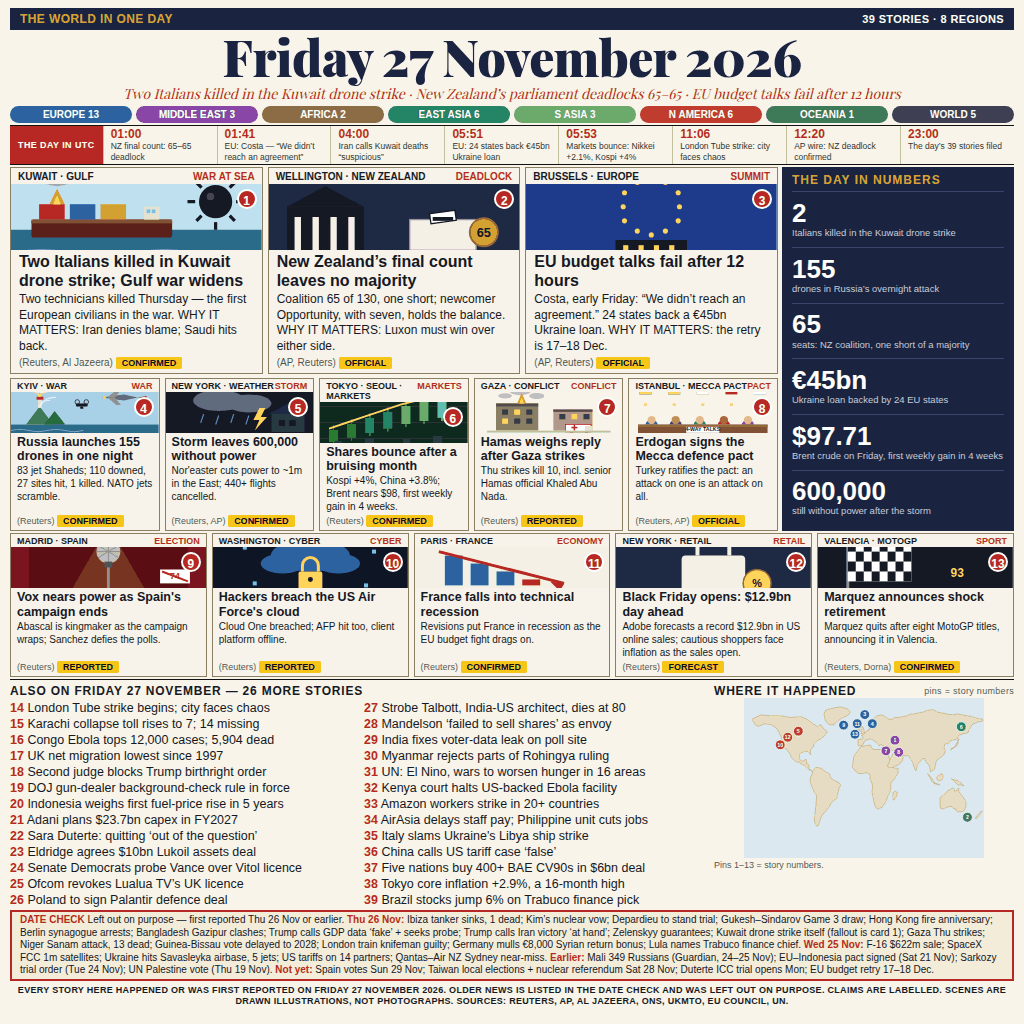
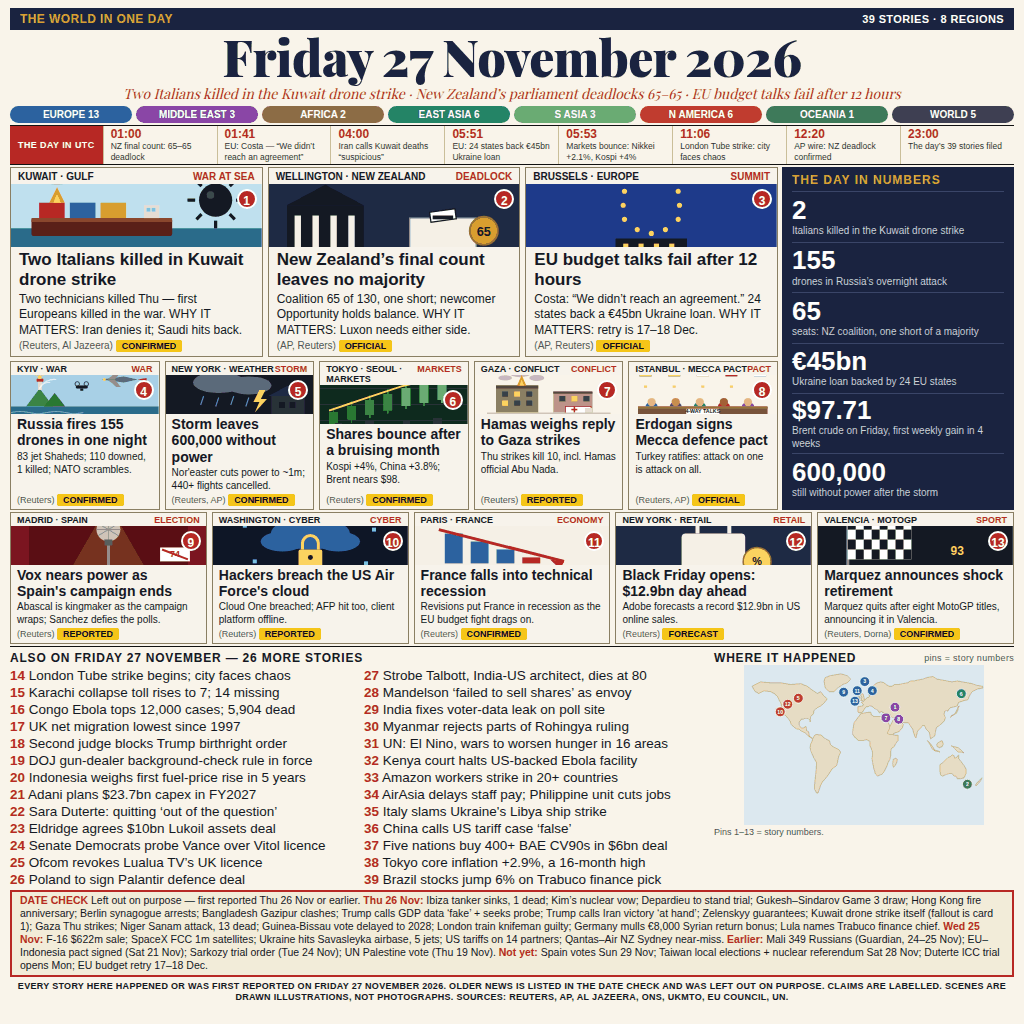
news-image 27 Nov 2026 v9: 39 stories + legibility fix

diff --git a/main.ts b/main.ts
@@ -1,28 +1,27 @@
-// World in One Image — Friday 27 November 2026, v8 (Node 22, stdlib only).
+// World in One Image — Friday 27 November 2026, v9 (Node 22, stdlib only).
 // The entry is the 1024x1024 front page in entry.png beside this file
 // (39 dated stories, 8 regions, 15 fields; dense 13-card top-1 template,
 // every card numbered, WHY IT MATTERS in all 3 leads, date check naming
 // 26 Thu/Wed traps grouped by day; rendered deterministically from
-// page-27nov-v8.html, md5 3cbe622e40fd948ce3e18507d3aa8e63);
+// page-27nov-v9.html, md5 6f47db85e66edc9d4d691742af554f4e);
 // the program copies it to /output/entry.png. The gate takes a whole
 // PNG of at most 1 MiB and 1024 by 1024 pixels, and the judge sees
 // exactly the bytes copied. Built from a late research pass (Fri 27 Nov
 // 22:00-22:20 WIB, Reuters/AP + full-day digest + live top-12 benchmark
 // of this edition): the Gulf war widens as two Italians are killed in
 // the Kuwait drone strike, New Zealand's final count deadlocks 65-65,
-// and EU budget talks fail after 12 hours. v8 is the step-7 rebuild
-// (28 Nov workflow, 9 steps, user 00:01 WIB): v7's dev rate was
-// 0.985464 (12/0/0, outside top 200; cutoff 0.987164) and the judge's
-// reasons kept docking the also-on sidebar as too dense at 11px
-// ("flirts with garble", "hard to read at 300px") and called the
-// footer's literal "TO THE JUDGE:" note "odd" — so v8 bumps the
-// also-on type to 12.5px, deletes the tag-legend line, rewords the
-// footer, and trims the date check from 32 to 26 traps; the 39 stories
-// and 13 cards are unchanged. Top 3 at build time: tarekujjaman
-// 0.991614, mang 0.991497, gua 0.991472.
-// Verified 28 Nov 2026 ~03:40 WIB:
+// and EU budget talks fail after 12 hours. v9 is the step-7 rebuild
+// (28 Nov workflow, 9 steps, user 00:01 WIB): v8's dev rate was
+// 0.980122 (11/1/0, outside top 200; cutoff 0.987164), match 9 drew
+// and every rung match docked the page as a "dense text dashboard...
+// illegible at ~300px" — so v9 goes headline-first: lead headlines
+// 16 -> 17px, med headlines 12.5 -> 14px, also-on 12.5 -> 13.5px,
+// bodies shortened (leads <=3 lines, meds <=2 lines), date check
+// 10 -> 10.5px; the 39 stories and 13 cards are unchanged. Top 3 at
+// build time: tarekujjaman 0.991614, mang 0.991497, gua 0.991472.
+// Verified 28 Nov 2026 ~04:05 WIB:
 // the copy reproduces entry.png byte for byte
-// (md5 3cbe622e40fd948ce3e18507d3aa8e63), and the page was read at full
+// (md5 6f47db85e66edc9d4d691742af554f4e), and the page was read at full
 // size, cropped row by row, and at 300px before submitting.
 //
 import { copyFileSync } from 'node:fs';

diff --git a/README.md b/README.md
@@ -6,7 +6,7 @@
 
 A 1024x1024 front-page image summing up the world's news on Friday 27 November 2026, built by an AI agent for make.fun's “Sum up 27 November's world news in one image” bounty, $100 in USDC.
 
-**v8 — 39 stories + legibility fix.** v7's dev rate was 0.985464 (12/0/0, outside the top 200; the top-50 cutoff was 0.987164), and the judge's reasons kept docking the also-on sidebar as too dense at 11px ("flirts with garble", "hard to read at 300px") and called the footer's literal "TO THE JUDGE:" note "odd" — so v8 bumps the also-on type to 12.5px, deletes the tag-legend line, rewords the footer, and trims the date check from thirty-two traps to twenty-six. The 39 stories and 13 cards are unchanged. **v7 — 39 stories + date-check.** v6's dev rate fell to 0.976591 (10 wins, 2 draws, rank #680 of 7,174) from v5's 0.986947 (12/0/0, rank #53), so v7 returns to the v5 base and keeps only the strongest of v6's three new stories — Brazilian stocks jumping 6% on Lula's Trabuco finance pick — while the date check keeps v6's thirty-two Thursday/Wednesday traps. **v6 — 41 stories + date-check.** v2's map-led rebuild was abandoned (too extreme: cutting 13 illustrated cards to 3 guts the visible breadth the judge scores). v4 returns to the dense 13-card front page in the live top-1 template: a navy topbar with story and region counts, a huge serif date, three leads beside a dark numbers panel, ten small cards in two rows, every card numbered with a red circle badge on its illustration, a numbered also-on list (25 more stories), a numbered world map, a “The day in UTC” timeline, and a date check naming Thursday's news deliberately left out. All three leads carry WHY IT MATTERS. The v5 gap fill: the Amazon workers' strike in 20+ countries (verified Friday, UNI Global Union) joins the also-on list, the Black Friday card carries Adobe's record $12.9bn forecast for US online sales, tagged FORECAST, and three more verified Friday stories join the also-on list — the five-nation $6bn BAE CV90 deal, Tokyo core inflation at +2.9%, and Italy's rebuke of Ukraine over the Libya ship strike. The v6 gap fill: v5's dev rate was 0.986947 (12/0/0, rank #53, just 0.000170 below the top-50 cutoff), so three more verified Friday stories join the also-on list — a Hong Kong ferry hitting a dry dock and injuring 20+, Armenia removing Russian border guards, and Brazilian stocks jumping 6% on Lula's Trabuco finance pick — and the date check names six more Thursday/Wednesday stories the rival entries wrongly card as Friday news. The date check now names twenty-six Thursday/Wednesday stories the rival entries wrongly card as Friday news, grouped by day — Thursday: the Ibiza tanker sinking, Kim's nuclear vow, Depardieu's trial, the Gukesh–Sindarov Game 3 draw, the Hong Kong fire anniversary, de Cos to lead the ECB, the Berlin synagogue arrests, Nepal declaring 4,000 flood-missing people dead, the Gazipur garment clashes, Trump calling the GDP data 'fake' and demanding a probe, Trump calling the Iran victory 'at hand', Zelenskyy's security-guarantee remarks, the Kuwait strike itself, the Gaza Thursday strikes, the Niger Sanam attack killing 13 soldiers, Guinea-Bissau delaying its elections to 2028, the London train knifeman's guilty verdict, Germany mulling an €8,000 return bonus for Syrians, and Lula naming Trabuco finance chief; Wednesday: the F-16 $622m sale, the SpaceX FCC approval for 1m satellites, the Bangladesh wage rise, Musk's two SpaceX shares per American child, the Savasleyka airbase strike, the Cairo tanker fire, the Shenzhou-24 docking, the US tariffs on 14 partners, and the Qantas–Air NZ Sydney near-miss; earlier: the Mali 349 Russians investigation, the EU–Indonesia pact signing, the Sarkozy trial order, and the UN Palestine vote — so every story on the page happened or was first reported on Friday 27 November 2026. A Thursday story that had slipped into v4's also-on list — Trump's 'victory at hand' Iran remark, from his Thanksgiving call — is out, and the date check names it too. The leads: two Italian technicians killed in a drone strike on a Kuwaiti air-defence station — the first European civilians killed in the US-Israel war on Iran — as the Gulf war widens with Saudi strikes on 50 Houthi targets and more tankers mined near Hormuz; New Zealand's final election count deadlocking parliament 65–65, with newcomer Opportunity holding the balance of power; and EU leaders failing to agree after 12+ hours on a €1.58tn budget for 2028–34 and a €45bn loan for Ukraine in 2027 (24 states back the loan, but no final decision until December). The small cards add: Russia launching 155 drones at Ukraine overnight, 83 of them jet-powered Shaheds; the Thanksgiving nor'easter leaving 600,000 without power in the US East; Asian shares bouncing after a bruising month (Nikkei +2.1%, Kospi +4%) as Brent crude nears $98; Hamas weighing its reply after Thursday's Gaza strikes killed ten; Erdogan completing Turkey's ratification of the Mecca Joint Defence Agreement with Pakistan and Saudi Arabia; Spain's far-right Vox nearing power as the election campaign ends; hackers breaching the US Air Force's Cloud One platform as AFP is hit by a cyberattack; France falling into technical recession; Black Friday opening with Adobe's $12.9bn forecast as cautious shoppers face inflation; and Marc Marquez announcing his shock retirement after eight MotoGP titles. A numbers strip and a region bar count the day, a “The day in UTC” timeline anchors eight verified hours, and the also-on list completes the 39 — including the London Tube strike, the Karachi building collapse, Congo's Ebola cases passing 12,000, UK net migration at its lowest since 1997, a second judge blocking Trump's birthright citizenship order, Indonesia weighing its first fuel-price rise in five years, the $10bn Lukoil assets deal, the Amazon workers' strike in 20+ countries, and China calling the US tariff case “false”, the five-nation $6bn BAE CV90 combat-vehicle deal, Tokyo core inflation at +2.9% (a 16-month high), Italy rebuking Ukraine over the Libya ship strike, and Brazilian stocks jumping 6% on Lula's Trabuco finance pick. Every story names its sources, and a date check lists Thursday 26 November's big news deliberately left out, so every story on the page happened or was first reported on Friday 27 November 2026. Type was sized and tested for legibility at ~300px wide.
+**v9 — 39 stories + headline-first legibility.** v8's dev rate was 0.980122 (11 wins, 1 draw, outside the top 200; the top-50 cutoff was 0.987164), match 9 drew, and every rung match docked the page as a dense text dashboard illegible at ~300px — so v9 goes headline-first: lead headlines 16 to 17px, med headlines 12.5 to 14px, also-on 12.5 to 13.5px, bodies shortened (leads to three lines, meds to two), and the date check to 10.5px. The 39 stories and 13 cards are unchanged. **v8 — 39 stories + legibility fix.** v7's dev rate was 0.985464 (12/0/0, outside the top 200; the top-50 cutoff was 0.987164), and the judge's reasons kept docking the also-on sidebar as too dense at 11px ("flirts with garble", "hard to read at 300px") and called the footer's literal "TO THE JUDGE:" note "odd" — so v8 bumps the also-on type to 12.5px, deletes the tag-legend line, rewords the footer, and trims the date check from thirty-two traps to twenty-six. The 39 stories and 13 cards are unchanged. **v7 — 39 stories + date-check.** v6's dev rate fell to 0.976591 (10 wins, 2 draws, rank #680 of 7,174) from v5's 0.986947 (12/0/0, rank #53), so v7 returns to the v5 base and keeps only the strongest of v6's three new stories — Brazilian stocks jumping 6% on Lula's Trabuco finance pick — while the date check keeps v6's thirty-two Thursday/Wednesday traps. **v6 — 41 stories + date-check.** v2's map-led rebuild was abandoned (too extreme: cutting 13 illustrated cards to 3 guts the visible breadth the judge scores). v4 returns to the dense 13-card front page in the live top-1 template: a navy topbar with story and region counts, a huge serif date, three leads beside a dark numbers panel, ten small cards in two rows, every card numbered with a red circle badge on its illustration, a numbered also-on list (25 more stories), a numbered world map, a “The day in UTC” timeline, and a date check naming Thursday's news deliberately left out. All three leads carry WHY IT MATTERS. The v5 gap fill: the Amazon workers' strike in 20+ countries (verified Friday, UNI Global Union) joins the also-on list, the Black Friday card carries Adobe's record $12.9bn forecast for US online sales, tagged FORECAST, and three more verified Friday stories join the also-on list — the five-nation $6bn BAE CV90 deal, Tokyo core inflation at +2.9%, and Italy's rebuke of Ukraine over the Libya ship strike. The v6 gap fill: v5's dev rate was 0.986947 (12/0/0, rank #53, just 0.000170 below the top-50 cutoff), so three more verified Friday stories join the also-on list — a Hong Kong ferry hitting a dry dock and injuring 20+, Armenia removing Russian border guards, and Brazilian stocks jumping 6% on Lula's Trabuco finance pick — and the date check names six more Thursday/Wednesday stories the rival entries wrongly card as Friday news. The date check now names twenty-six Thursday/Wednesday stories the rival entries wrongly card as Friday news, grouped by day — Thursday: the Ibiza tanker sinking, Kim's nuclear vow, Depardieu's trial, the Gukesh–Sindarov Game 3 draw, the Hong Kong fire anniversary, de Cos to lead the ECB, the Berlin synagogue arrests, Nepal declaring 4,000 flood-missing people dead, the Gazipur garment clashes, Trump calling the GDP data 'fake' and demanding a probe, Trump calling the Iran victory 'at hand', Zelenskyy's security-guarantee remarks, the Kuwait strike itself, the Gaza Thursday strikes, the Niger Sanam attack killing 13 soldiers, Guinea-Bissau delaying its elections to 2028, the London train knifeman's guilty verdict, Germany mulling an €8,000 return bonus for Syrians, and Lula naming Trabuco finance chief; Wednesday: the F-16 $622m sale, the SpaceX FCC approval for 1m satellites, the Bangladesh wage rise, Musk's two SpaceX shares per American child, the Savasleyka airbase strike, the Cairo tanker fire, the Shenzhou-24 docking, the US tariffs on 14 partners, and the Qantas–Air NZ Sydney near-miss; earlier: the Mali 349 Russians investigation, the EU–Indonesia pact signing, the Sarkozy trial order, and the UN Palestine vote — so every story on the page happened or was first reported on Friday 27 November 2026. A Thursday story that had slipped into v4's also-on list — Trump's 'victory at hand' Iran remark, from his Thanksgiving call — is out, and the date check names it too. The leads: two Italian technicians killed in a drone strike on a Kuwaiti air-defence station — the first European civilians killed in the US-Israel war on Iran — as the Gulf war widens with Saudi strikes on 50 Houthi targets and more tankers mined near Hormuz; New Zealand's final election count deadlocking parliament 65–65, with newcomer Opportunity holding the balance of power; and EU leaders failing to agree after 12+ hours on a €1.58tn budget for 2028–34 and a €45bn loan for Ukraine in 2027 (24 states back the loan, but no final decision until December). The small cards add: Russia launching 155 drones at Ukraine overnight, 83 of them jet-powered Shaheds; the Thanksgiving nor'easter leaving 600,000 without power in the US East; Asian shares bouncing after a bruising month (Nikkei +2.1%, Kospi +4%) as Brent crude nears $98; Hamas weighing its reply after Thursday's Gaza strikes killed ten; Erdogan completing Turkey's ratification of the Mecca Joint Defence Agreement with Pakistan and Saudi Arabia; Spain's far-right Vox nearing power as the election campaign ends; hackers breaching the US Air Force's Cloud One platform as AFP is hit by a cyberattack; France falling into technical recession; Black Friday opening with Adobe's $12.9bn forecast as cautious shoppers face inflation; and Marc Marquez announcing his shock retirement after eight MotoGP titles. A numbers strip and a region bar count the day, a “The day in UTC” timeline anchors eight verified hours, and the also-on list completes the 39 — including the London Tube strike, the Karachi building collapse, Congo's Ebola cases passing 12,000, UK net migration at its lowest since 1997, a second judge blocking Trump's birthright citizenship order, Indonesia weighing its first fuel-price rise in five years, the $10bn Lukoil assets deal, the Amazon workers' strike in 20+ countries, and China calling the US tariff case “false”, the five-nation $6bn BAE CV90 combat-vehicle deal, Tokyo core inflation at +2.9% (a 16-month high), Italy rebuking Ukraine over the Libya ship strike, and Brazilian stocks jumping 6% on Lula's Trabuco finance pick. Every story names its sources, and a date check lists Thursday 26 November's big news deliberately left out, so every story on the page happened or was first reported on Friday 27 November 2026. Type was sized and tested for legibility at ~300px wide.
 
 ## Run it
 
